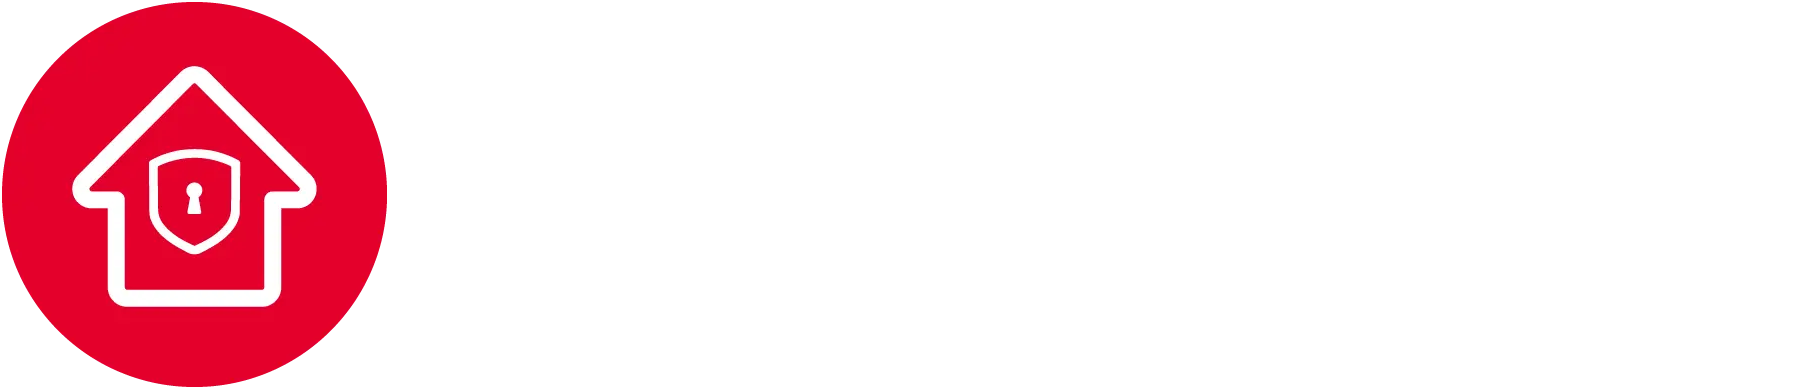
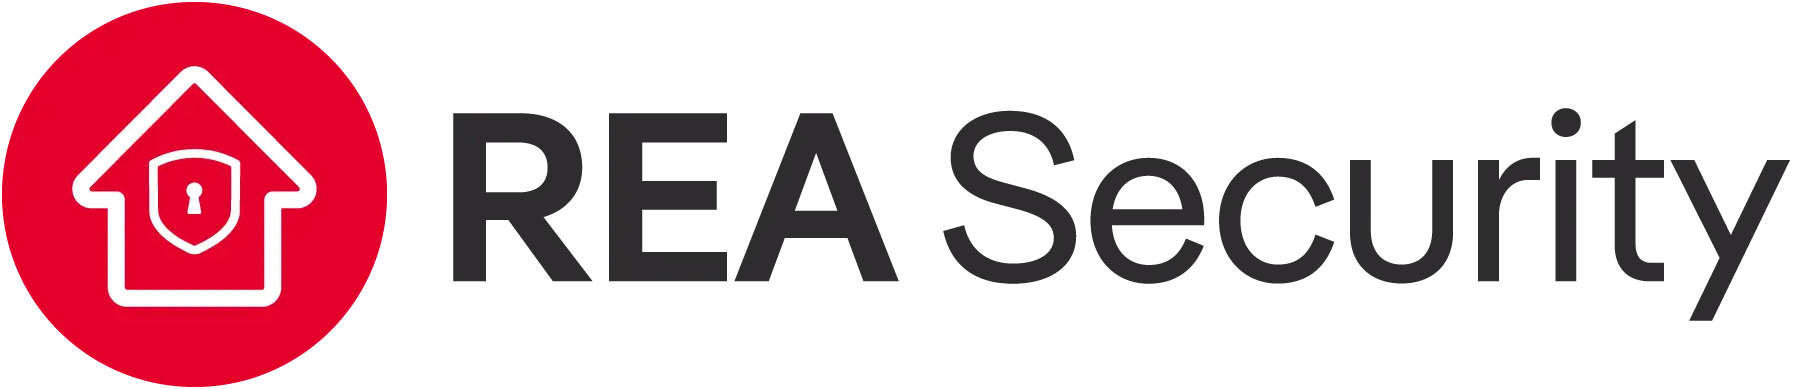
updating sponsor to switch with theme and other sponsor fixes

Changed region(s): [[0.2497, 0.2776, 0.9989, 0.8329]]

diff --git a/apps/web/src/lib/constants/sponsors.ts b/apps/web/src/lib/constants/sponsors.ts
@@ -3,7 +3,10 @@ import { type SponsorDetails } from "$lib/api/types";
 export const sponsors: SponsorDetails[] = [
   {
     name: "TantoSec",
-    logo: "/images/sponsors/tanto-security.webp",
+    logo: {
+      light: "/images/sponsors/tanto-security.webp",
+      dark: "/images/sponsors/tanto-security.webp",
+    },
     url: "https://tantosec.com/",
     level: "platinum",
     description: {
@@ -17,7 +20,10 @@ export const sponsors: SponsorDetails[] = [
   },
   {
     name: "Exploit Security",
-    logo: "/images/sponsors/exploit-security.webp",
+    logo: {
+      light: "/images/sponsors/exploit-security.webp",
+      dark: "/images/sponsors/exploit-security.webp",
+    },
     url: "https://www.exploitsecurity.io/",
     level: "gold",
     description: {
@@ -33,7 +39,10 @@ Learn more:`,
   },
   {
     name: "REA",
-    logo: "/images/sponsors/rea.webp",
+    logo: {
+      light: "/images/sponsors/rea.webp",
+      dark: "/images/sponsors/rea-dark.webp",
+    },
     url: "https://www.rea-group.com/security/",
     level: "gold",
     description: {
@@ -45,7 +54,10 @@ Learn more:`,
   },
   {
     name: "Trenchant",
-    logo: "/images/sponsors/trenchant.webp",
+    logo: {
+      light: "/images/sponsors/trenchant.webp",
+      dark: "/images/sponsors/trenchant.webp",
+    },
     url: "https://www.trenchant.io/",
     level: "gold",
     description: {
@@ -57,37 +69,55 @@ Learn more:`,
   },
   {
     name: "Division 5",
-    logo: "/images/sponsors/division5.svg",
+    logo: {
+      light: "/images/sponsors/division5.webp",
+      dark: "/images/sponsors/division5-dark.svg",
+    },
     url: "https://division5.io/",
     level: "silver",
   },
   {
     name: "Asontu",
-    logo: "/images/sponsors/asontu.webp",
+    logo: {
+      light: "/images/sponsors/asontu.webp",
+      dark: "/images/sponsors/asontu.webp",
+    },
     url: "https://asontu.com.au/",
     level: "silver",
   },
   {
     name: "Volkis",
-    logo: "/images/sponsors/volkis-alt.svg",
+    logo: {
+      light: "/images/sponsors/volkis-alt.svg",
+      dark: "/images/sponsors/volkis-alt.svg",
+    },
     url: "https://www.volkis.com.au/",
     level: "silver",
   },
   {
     name: "Mantel Group",
-    logo: "/images/sponsors/mantel-group.webp",
+    logo: {
+      light: "/images/sponsors/mantel-group.webp",
+      dark: "/images/sponsors/mantel-group.webp",
+    },
     url: "https://mantelgroup.com.au",
     level: "silver",
   },
   {
     name: "PentesterLab",
-    logo: "/images/sponsors/pentesterlab.webp",
+    logo: {
+      light: "/images/sponsors/pentesterlab.webp",
+      dark: "/images/sponsors/pentesterlab.webp",
+    },
     url: "https://pentesterlab.com/",
     level: "silver",
   },
   {
     name: "Google Cloud Platform (GCP)",
-    logo: "/images/sponsors/gcloud.webp",
+    logo: {
+      light: "/images/sponsors/gcloud.webp",
+      dark: "/images/sponsors/gcloud.webp",
+    },
     url: "https://g.co/SecurityPrivacyEngJobs",
     level: "infra",
     description: {

diff --git a/apps/web/src/lib/components/ThemeSwitcher.svelte b/apps/web/src/lib/components/ThemeSwitcher.svelte
@@ -4,31 +4,22 @@
 </script>
 
 <script lang="ts">
-  import { onMount } from "svelte";
+  import themeState from "$lib/state/theme.svelte";
 
   export let detailed: boolean = false;
 
-  let currentTheme: string = "dark";
   let checkbox: HTMLInputElement;
 
-  onMount(() => {
-    const storedTheme = localStorage.getItem("theme");
-    currentTheme = storedTheme || "dark";
-    document.documentElement.setAttribute("data-theme", currentTheme);
-  });
-
   function updateTheme(event: Event): void {
-    currentTheme = (event.target as HTMLInputElement).checked
-      ? "dark"
-      : "light";
-    localStorage.setItem("theme", currentTheme);
-    document.documentElement.setAttribute("data-theme", currentTheme);
+    themeState.updateTheme(
+      (event.target as HTMLInputElement).checked ? "dark" : "light",
+    );
   }
 
   function toggleTheme(): void {
     checkbox.checked = !checkbox.checked;
     checkbox.dispatchEvent(new Event("change"));
-    currentTheme = checkbox.checked ? "dark" : "light";
+    themeState.updateTheme(checkbox.checked ? "dark" : "light");
   }
 </script>
 
@@ -40,7 +31,7 @@
         data-toggle-theme="dark,light"
         data-act-class="swap-active"
         class="opacity-0"
-        checked={currentTheme === "dark"}
+        checked={themeState.currentTheme === "dark"}
         on:change={updateTheme}
         bind:this={checkbox}
       />
@@ -66,7 +57,7 @@
 
     {#if detailed}
       <span class="text-sm font-medium flex items-center">
-        {currentTheme === "dark" ? "Dark" : "Light"}
+        {themeState.currentTheme === "dark" ? "Dark" : "Light"}
       </span>
     {/if}
   </div>

diff --git a/apps/web/src/lib/components/sponsors/SponsorCarousel.svelte b/apps/web/src/lib/components/sponsors/SponsorCarousel.svelte
@@ -6,8 +6,10 @@
 
 <script lang="ts">
   import { type SponsorDetails, type SponsorTier } from "$lib/api/types";
+  import themeState from "$lib/state/theme.svelte";
 
   const { sponsors }: SponsorCarousellProps = $props();
+
   // map of each tier to the list of sponsors at that tier
   const sponsorsByTier = $derived(
     sponsors.reduce(
@@ -24,7 +26,12 @@
   <div class="slide">
     <div class="logo">
       <a href={sponsor.url} target="_blank" title={sponsor.name}>
-        <img alt={sponsor.name} src={sponsor.logo} />
+        <img
+          alt={sponsor.name}
+          src={themeState.currentTheme === "dark"
+            ? sponsor.logo.dark
+            : sponsor.logo.light}
+        />
       </a>
     </div>
     <div class="sponsor-tier">
@@ -38,9 +45,7 @@
 
 <div class="slide-container">
   <h2 class="text-center" style="margin-top: 0;  text-align: center;">
-    <a style="text-decoration: none;" href="https://downunderctf.com/sponsors"
-      >Sponsored By</a
-    >
+    <a class="text-xl hover:text-primary" href="/sponsors">Our Sponsors</a>
   </h2>
   <div class="flex items-center">
     <div class=" items-center hidden sm:flex">

diff --git a/apps/web/src/routes/sponsors/+page.svelte b/apps/web/src/routes/sponsors/+page.svelte
@@ -3,6 +3,7 @@
   import { sponsors } from "$lib/constants/sponsors";
   import Icon from "@iconify/svelte";
   import { slide } from "svelte/transition";
+  import themeState from "$lib/state/theme.svelte";
 
   const platinumSponsor = sponsors.find(
     (sponsor) => sponsor.level === "platinum",
@@ -41,9 +42,11 @@
     >
       <a href={sponsor.url} target="_blank">
         <img
-          src={sponsor.logo}
+          src={themeState.currentTheme === "dark"
+            ? sponsor.logo.dark
+            : sponsor.logo.light}
           alt={`${sponsor.name} Sponsor`}
-          class={`${size === "large" ? "w-full max-w-96" : "w-full max-w-48 max-h-24"}`}
+          class={`${size === "large" ? "max-w-96" : "max-w-48 max-h-24"} w-full`}
         />
       </a>
     </div>
@@ -75,7 +78,7 @@
                   <a
                     href={link}
                     target="_blank"
-                    class="text-blue-500 hover:text-blue-600 text-sm block"
+                    class="text-blue-500 hover:text-blue-600 text-sm block break-all"
                   >
                     {link}
                   </a>

diff --git a/apps/web/src/lib/state/theme.svelte.ts b/apps/web/src/lib/state/theme.svelte.ts
@@ -1,0 +1,28 @@
+class ThemeState {
+  currentTheme = $state("dark");
+
+  constructor() {
+    this.initialize();
+  }
+
+  initialize() {
+    const storedTheme = localStorage.getItem("theme");
+    this.currentTheme = storedTheme || "dark";
+    document.documentElement.setAttribute("data-theme", this.currentTheme);
+  }
+
+  updateTheme(theme: "dark" | "light"): void {
+    this.currentTheme = theme;
+    localStorage.setItem("theme", this.currentTheme);
+    document.documentElement.setAttribute("data-theme", this.currentTheme);
+  }
+
+  toggleTheme(): void {
+    this.currentTheme = this.currentTheme === "dark" ? "light" : "dark";
+    localStorage.setItem("theme", this.currentTheme);
+    document.documentElement.setAttribute("data-theme", this.currentTheme);
+  }
+}
+
+const themeState = new ThemeState();
+export default themeState;

diff --git a/apps/web/src/lib/api/types.ts b/apps/web/src/lib/api/types.ts
@@ -13,7 +13,10 @@ export type PathResponse<
 
 export type SponsorDetails = {
   name: string;
-  logo: string;
+  logo: {
+    light: string;
+    dark: string;
+  };
   description?: {
     text: string;
     links: string[];
